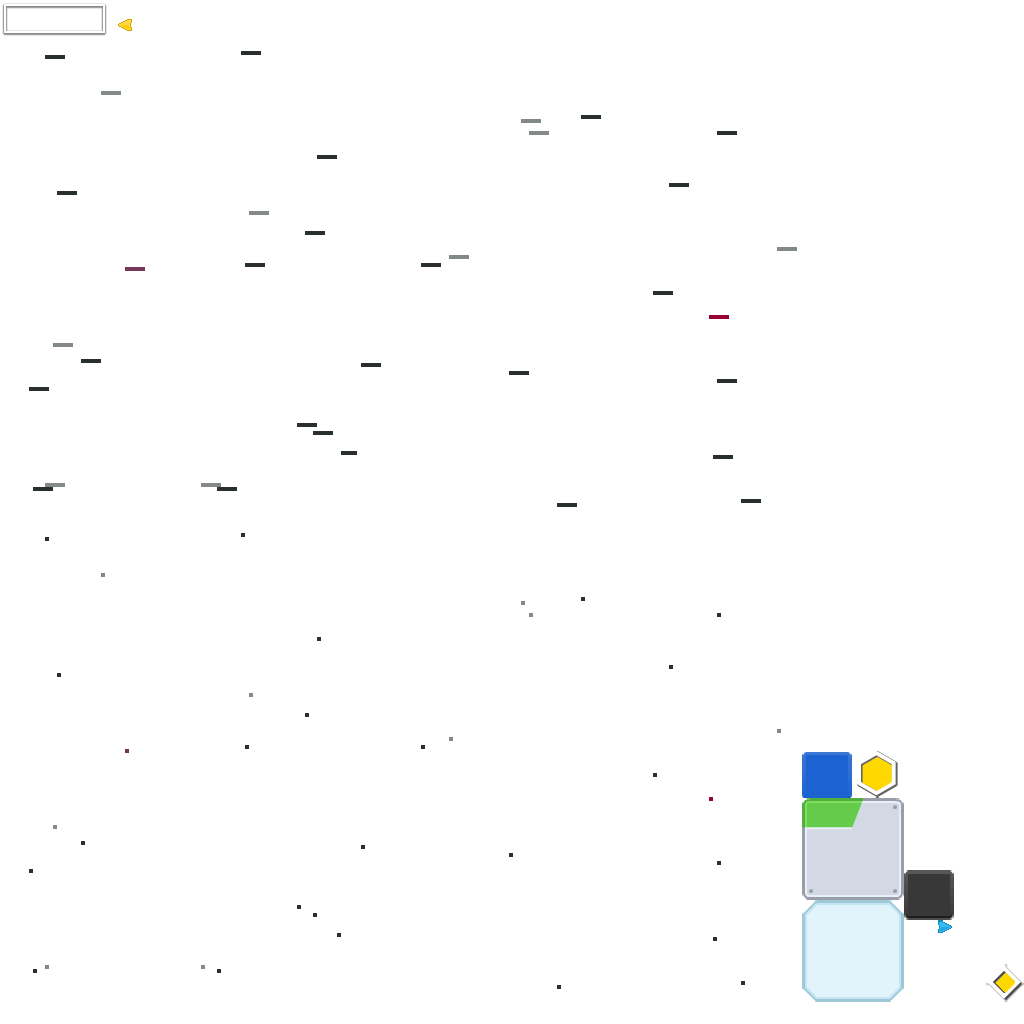
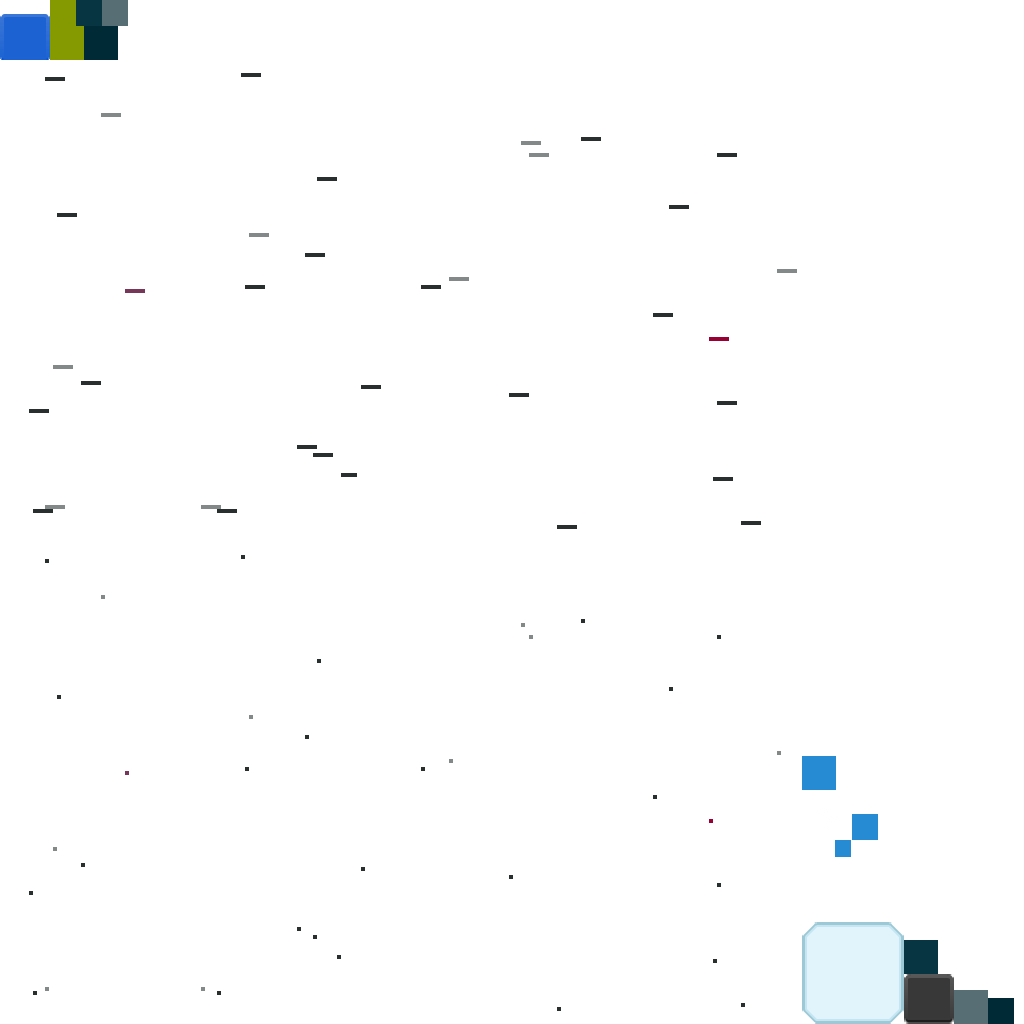
Utilize placeholder sprites
So I stop messing around with stylistic decisions when I ought to be
focusing on actual functionality

diff --git a/core/src/galenscovell/oregontrail/map/Tile.java b/core/src/galenscovell/oregontrail/map/Tile.java
@@ -72,8 +72,8 @@ public class Tile extends Actor {
 
     public void becomeCurrent() {
         ResourceManager.currentMarker.setTarget(
-            (x + 2) * Constants.TILESIZE - 34,
-            Gdx.graphics.getHeight() - (y + 4) * Constants.TILESIZE - 20
+            (x + 2) * Constants.TILESIZE - 32,
+            Gdx.graphics.getHeight() - (y + 4) * Constants.TILESIZE - 12
         );
         type = TileType.CURRENT;
     }
@@ -83,7 +83,7 @@ public class Tile extends Actor {
     }
 
     public void becomeUnexplored() {
-        sprite = new Sprite(ResourceManager.uiAtlas.createSprite("map_hexagon"));
+        sprite = ResourceManager.sp_test0;
         type = TileType.UNEXPLORED;
     }
 
@@ -93,67 +93,59 @@ public class Tile extends Actor {
 
     @Override
     public void draw(Batch batch, float parentAlpha) {
-        if (isEmpty()) {
-            return;
-        }
+        if (!isEmpty()) {
+            drawGlow(batch);
+            if (isExplored()) {
+                batch.setColor(0.6f, 0.8f, 1.0f, 1.0f);
+                batch.draw(
+                        sprite,
+                        (x + 2) * Constants.TILESIZE - 8,
+                        Gdx.graphics.getHeight() - (y + 4) * Constants.TILESIZE,
+                        Constants.TILESIZE,
+                        Constants.TILESIZE
+                );
+                batch.setColor(1, 1, 1, 1);
+            } else {
+                batch.draw(
+                        sprite,
+                        (x + 2) * Constants.TILESIZE - 8,
+                        Gdx.graphics.getHeight() - (y + 4) * Constants.TILESIZE + 12,
+                        Constants.TILESIZE,
+                        Constants.TILESIZE
+                );
+            }
 
-        // Glow
+            // Current
+            if (isCurrent()) {
+                ResourceManager.currentMarker.render(batch);
+            }
+        }
+    }
+
+    private void drawGlow(Batch batch) {
         if (glowUp) {
             frames++;
         } else {
             frames -= 2;
         }
-        if (frames == 120) {
+        if (frames == 160) {
             glowUp = false;
-        } else if (frames == 0) {
+        } else if (frames == 60) {
             glowUp = true;
         }
-        float frameAlpha = (frames / 120.0f);
-        batch.setColor(0.3f, 0.8f, 1, frameAlpha);
+        float frameAlpha = (frames / 160.0f);
+        if (isSelected()) {
+            batch.setColor(0.95f, 0.3f, 1, frameAlpha);
+        } else {
+            batch.setColor(0.3f, 0.95f, 1, frameAlpha);
+        }
         batch.draw(
-            ResourceManager.mapGlow,
-            (x + 2) * Constants.TILESIZE - 22,
-            Gdx.graphics.getHeight() - (y + 4) * Constants.TILESIZE - 6,
-            Constants.TILESIZE * 2,
-            Constants.TILESIZE * 2
+                ResourceManager.mapGlow,
+                (x + 2) * Constants.TILESIZE - 20,
+                Gdx.graphics.getHeight() - (y + 4) * Constants.TILESIZE,
+                Constants.TILESIZE * 2,
+                Constants.TILESIZE * 2
         );
         batch.setColor(1, 1, 1, 1);
-
-        // Map location
-        if (isExplored()) {
-            batch.setColor(0.6f, 0.8f, 1.0f, 1.0f);
-            batch.draw(
-                sprite,
-                (x + 2) * Constants.TILESIZE - 10,
-                Gdx.graphics.getHeight() - (y + 4) * Constants.TILESIZE + 5,
-                Constants.TILESIZE,
-                Constants.TILESIZE
-            );
-            batch.setColor(1, 1, 1, 1);
-        } else {
-            batch.draw(
-                sprite,
-                (x + 2) * Constants.TILESIZE - 10,
-                Gdx.graphics.getHeight() - (y + 4) * Constants.TILESIZE + 5,
-                Constants.TILESIZE,
-                Constants.TILESIZE
-            );
-        }
-
-        // Current
-        if (isCurrent()) {
-            ResourceManager.currentMarker.render(batch);
-        }
-
-        // Selected
-        if (selected) {
-            batch.draw(
-                ResourceManager.mapSelect,
-                (x + 3) * Constants.TILESIZE - 10,
-                Gdx.graphics.getHeight() - (y + 3) * Constants.TILESIZE - 20,
-                Constants.TILESIZE,
-                Constants.TILESIZE
-            );
-        }
     }
 }

diff --git a/core/src/galenscovell/oregontrail/util/ResourceManager.java b/core/src/galenscovell/oregontrail/util/ResourceManager.java
@@ -18,9 +18,9 @@ public class ResourceManager {
     public static AssetManager assetManager;
     public static TextureAtlas uiAtlas;
     public static LabelStyle label_tinyStyle, label_mediumStyle, label_detailStyle, label_menuStyle, label_titleStyle;
-    public static NinePatchDrawable buttonUp, buttonDown, glass, panel;
+    public static NinePatchDrawable buttonUp, buttonDown, glass, panel, np_test0, np_test1, np_test2, np_test3, np_test4;
     public static TextButtonStyle button_fullStyle;
-    public static Sprite mapGlow, mapSelect;
+    public static Sprite mapGlow, sp_test0, sp_test1, sp_test2, sp_test3, sp_test4;
     public static CurrentLocationAnimation currentMarker;
     public static Preferences prefs;
 
@@ -83,7 +83,12 @@ public class ResourceManager {
         buttonUp = new NinePatchDrawable(uiAtlas.createPatch("buttonup"));
         buttonDown = new NinePatchDrawable(uiAtlas.createPatch("buttondown"));
         glass = new NinePatchDrawable(uiAtlas.createPatch("glass"));
-        panel = new NinePatchDrawable(uiAtlas.createPatch("panel"));
+
+        np_test0 = new NinePatchDrawable(uiAtlas.createPatch("test-np-0"));
+        np_test1 = new NinePatchDrawable(uiAtlas.createPatch("test-np-1"));
+        np_test2 = new NinePatchDrawable(uiAtlas.createPatch("test-np-2"));
+        np_test3 = new NinePatchDrawable(uiAtlas.createPatch("test-np-3"));
+        np_test4 = new NinePatchDrawable(uiAtlas.createPatch("test-np-4"));
     }
 
     private static void loadLabelStyles() {
@@ -101,11 +106,12 @@ public class ResourceManager {
 
     private static void loadSprites() {
         mapGlow = new Sprite(uiAtlas.createSprite("map_glow"));
-        mapSelect = new Sprite(uiAtlas.createSprite("map_select"));
-//        highlightBlue = new Sprite(uiAtlas.createSprite("highlight_blue"));
-//        highlightBlue.flip(false, true);
-//        highlightOrange = new Sprite(uiAtlas.createSprite("highlight_orange"));
-//        highlightOrange.flip(false, true);
+
+        sp_test0 = new Sprite(uiAtlas.createSprite("test-box-0"));
+        sp_test1 = new Sprite(uiAtlas.createSprite("test-box-1"));
+        sp_test2 = new Sprite(uiAtlas.createSprite("test-box-2"));
+        sp_test3 = new Sprite(uiAtlas.createSprite("test-box-3"));
+        sp_test4 = new Sprite(uiAtlas.createSprite("test-box-4"));
     }
 
     private static void loadAnimations() {

diff --git a/core/src/galenscovell/oregontrail/ui/components/NavigationMap.java b/core/src/galenscovell/oregontrail/ui/components/NavigationMap.java
@@ -22,14 +22,14 @@ public class NavigationMap extends Table {
         this.setFillParent(true);
 
         Table mapTable = new Table();
-        mapTable.setBackground(ResourceManager.glass);
+        mapTable.setBackground(ResourceManager.np_test2);
 
         Table mainMapTable = createMapBox();
         Table navInfoTable = createInfoBox();
 
         mapTable.add(mainMapTable).width(Constants.MAPBORDERWIDTH).height(Constants.MAPBORDERHEIGHT).expand().fill();
         mapTable.row();
-        mapTable.add(navInfoTable).width(Constants.MAPBORDERWIDTH).padTop(10);
+        mapTable.add(navInfoTable).width(Constants.MAPBORDERWIDTH).padTop(5).padBottom(15);
 
         this.add(mapTable).width(Constants.EXACT_X).height(Constants.EXACT_Y - 40).expand().fill().center().padTop(40);
     }
@@ -50,17 +50,16 @@ public class NavigationMap extends Table {
             }
         });
 
-        navInfoTable.add(travelButton).width(120).height(50).expand().fill().right();
+        navInfoTable.add(travelButton).width(150).height(45).expand().fill().right();
 
         return navInfoTable;
     }
 
     private Table createMapBox() {
         Table mainMapTable = new Table();
-        mainMapTable.setBackground(ResourceManager.glass);
 
         Table innerTable = new Table();
-        innerTable.setBackground(new TextureRegionDrawable(ResourceManager.uiAtlas.findRegion("galaxy")));
+        innerTable.setBackground(ResourceManager.np_test4);
         generateMap(innerTable);
 
         mainMapTable.add(innerTable).expand().fill();

diff --git a/core/src/galenscovell/oregontrail/graphics/CurrentLocationAnimation.java b/core/src/galenscovell/oregontrail/graphics/CurrentLocationAnimation.java
@@ -9,7 +9,7 @@ public class CurrentLocationAnimation {
     private int x, y;
 
     public CurrentLocationAnimation() {
-        this.sprite = new Sprite(ResourceManager.uiAtlas.findRegion("current_marker"));
+        this.sprite = ResourceManager.uiAtlas.createSprite("current_marker");
         this.size = Constants.TILESIZE * 3;
         this.frame = 0.0f;
     }
